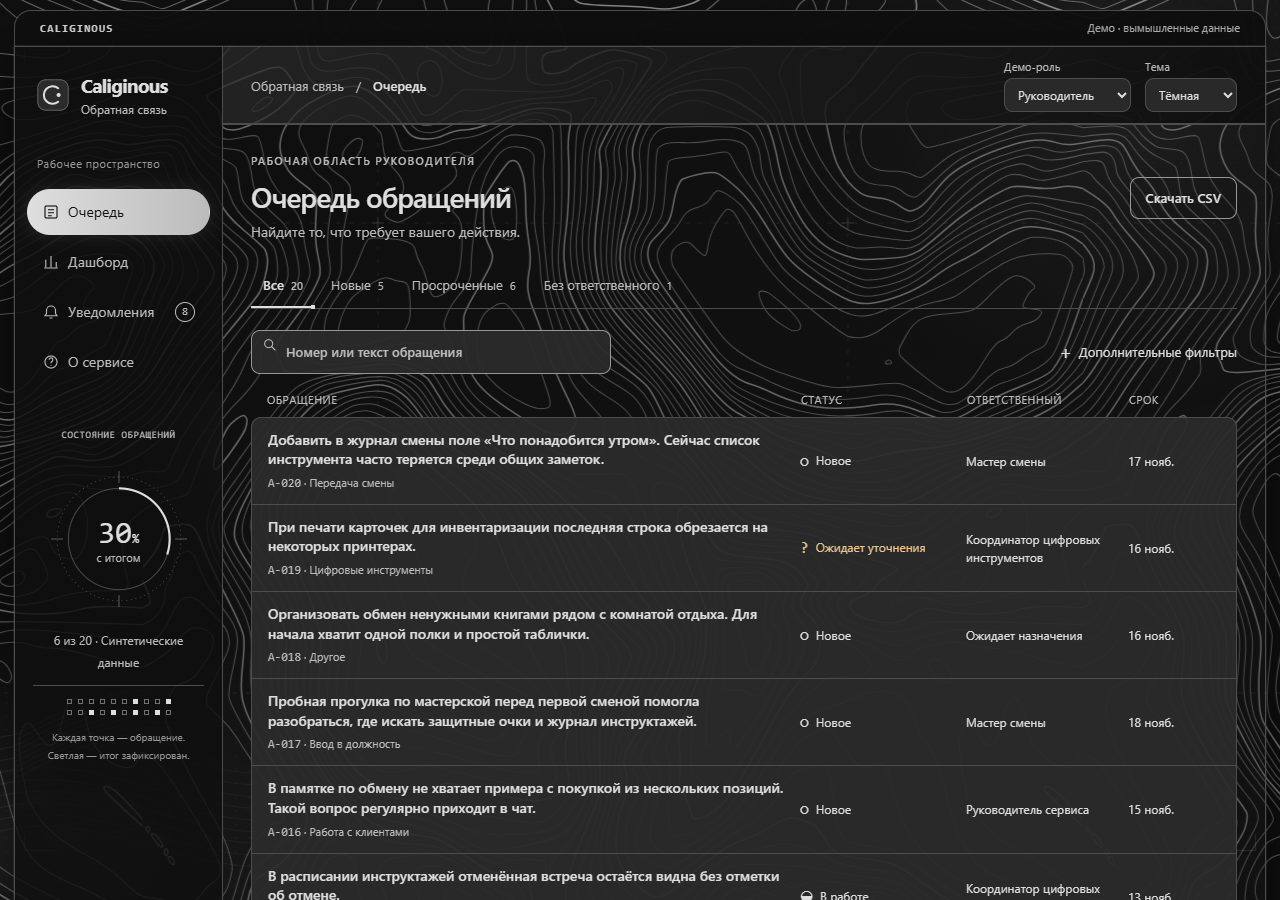
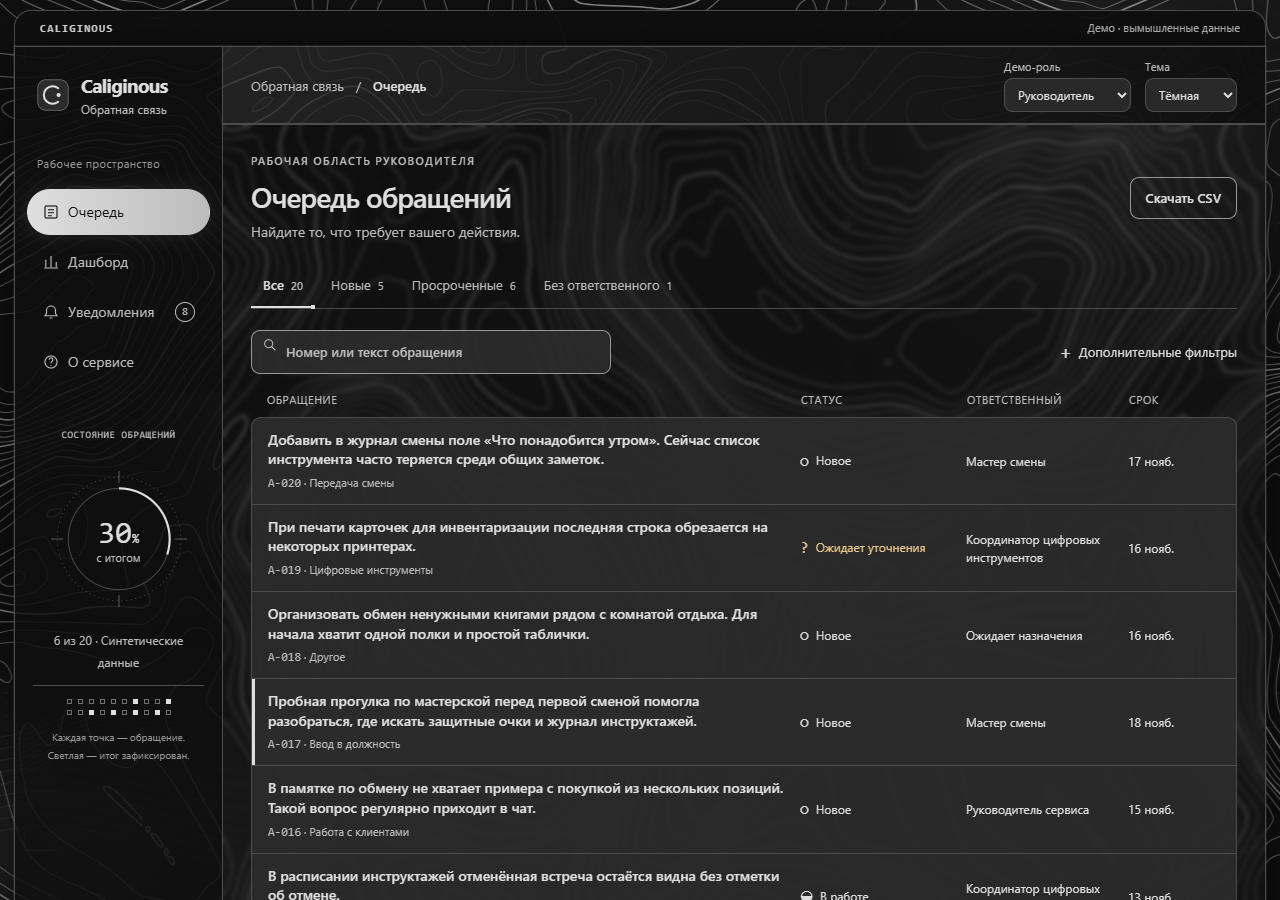
style: frost the workspace background

diff --git a/index.html b/index.html
@@ -1,5 +1,5 @@
 <!doctype html>
-<html lang="ru"><head><meta charset="utf-8"><meta name="viewport" content="width=device-width,initial-scale=1"><meta name="color-scheme" content="dark light"><meta name="description" content="Caliginous — интерактивное дизайн-демо сервиса обратной связи сотрудников."><title>Caliginous — обратная связь сотрудников</title><link rel="icon" href="mark.svg" type="image/svg+xml"><link rel="stylesheet" href="prototype.css"><link rel="stylesheet" href="moodboard.css"><link rel="stylesheet" href="dashboard.css"><link rel="stylesheet" href="release.css"><link rel="stylesheet" href="motion.css?v=contours-2"></head>
+<html lang="ru"><head><meta charset="utf-8"><meta name="viewport" content="width=device-width,initial-scale=1"><meta name="color-scheme" content="dark light"><meta name="description" content="Caliginous — интерактивное дизайн-демо сервиса обратной связи сотрудников."><title>Caliginous — обратная связь сотрудников</title><link rel="icon" href="mark.svg" type="image/svg+xml"><link rel="stylesheet" href="prototype.css"><link rel="stylesheet" href="moodboard.css"><link rel="stylesheet" href="dashboard.css"><link rel="stylesheet" href="release.css"><link rel="stylesheet" href="motion.css?v=workspace-glass"></head>
 <body class="dark">
 <a class="skip" href="#main">Перейти к содержимому</a>
 <div class="prototype-bar"><span><b>CALIGINOUS</b></span><span>Демо · вымышленные данные</span></div>

diff --git a/motion.css b/motion.css
@@ -20,6 +20,12 @@ body.dark .sidebar { background: linear-gradient(180deg, #0f0f0fe0, #0f0f0fb3); 
 body.dark .sidebar::after { display: none; }
 body:not(.dark) .sidebar { background: #f5f5f5c2; }
 
+/* Frost the shared workspace backdrop while keeping its controls and charts sharp. */
+.workspace > main {
+  -webkit-backdrop-filter: blur(2.4px);
+  backdrop-filter: blur(2.4px);
+}
+
 body.dark :is(.panel, .metrics .metric:not(:first-child)) { background: #252525ad; }
 body:not(.dark) :is(.panel, .metrics .metric:not(:first-child)) { background: #f4f4f4b8; }
 .dash-panel, .summarygrid .panel { backdrop-filter: blur(.55px); }
